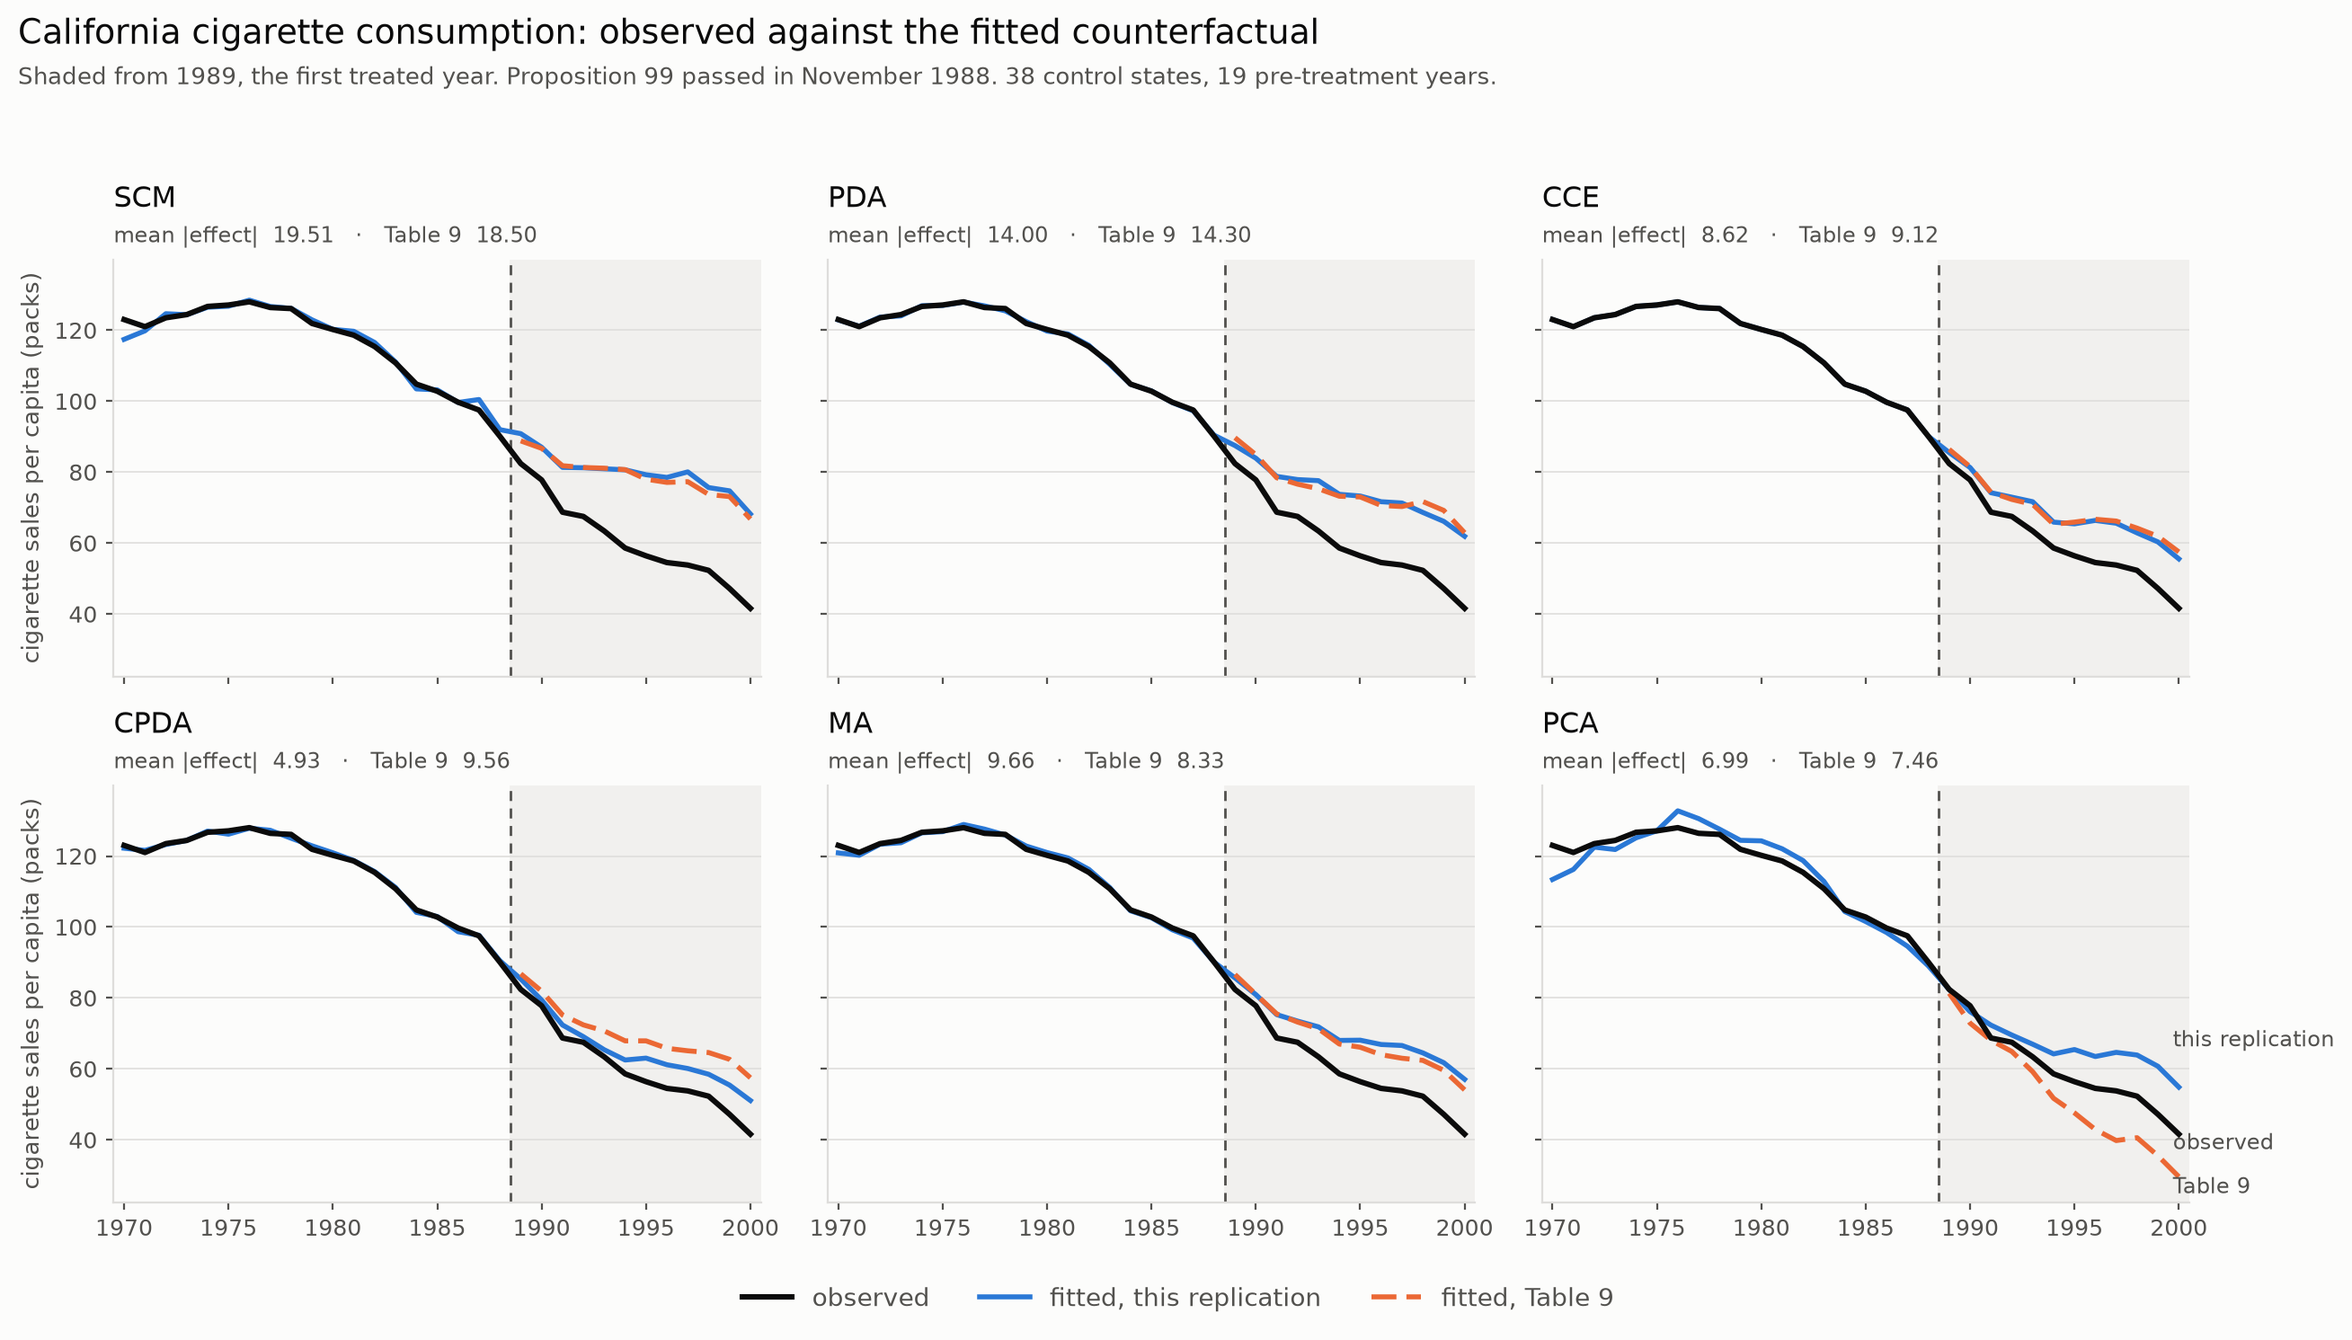
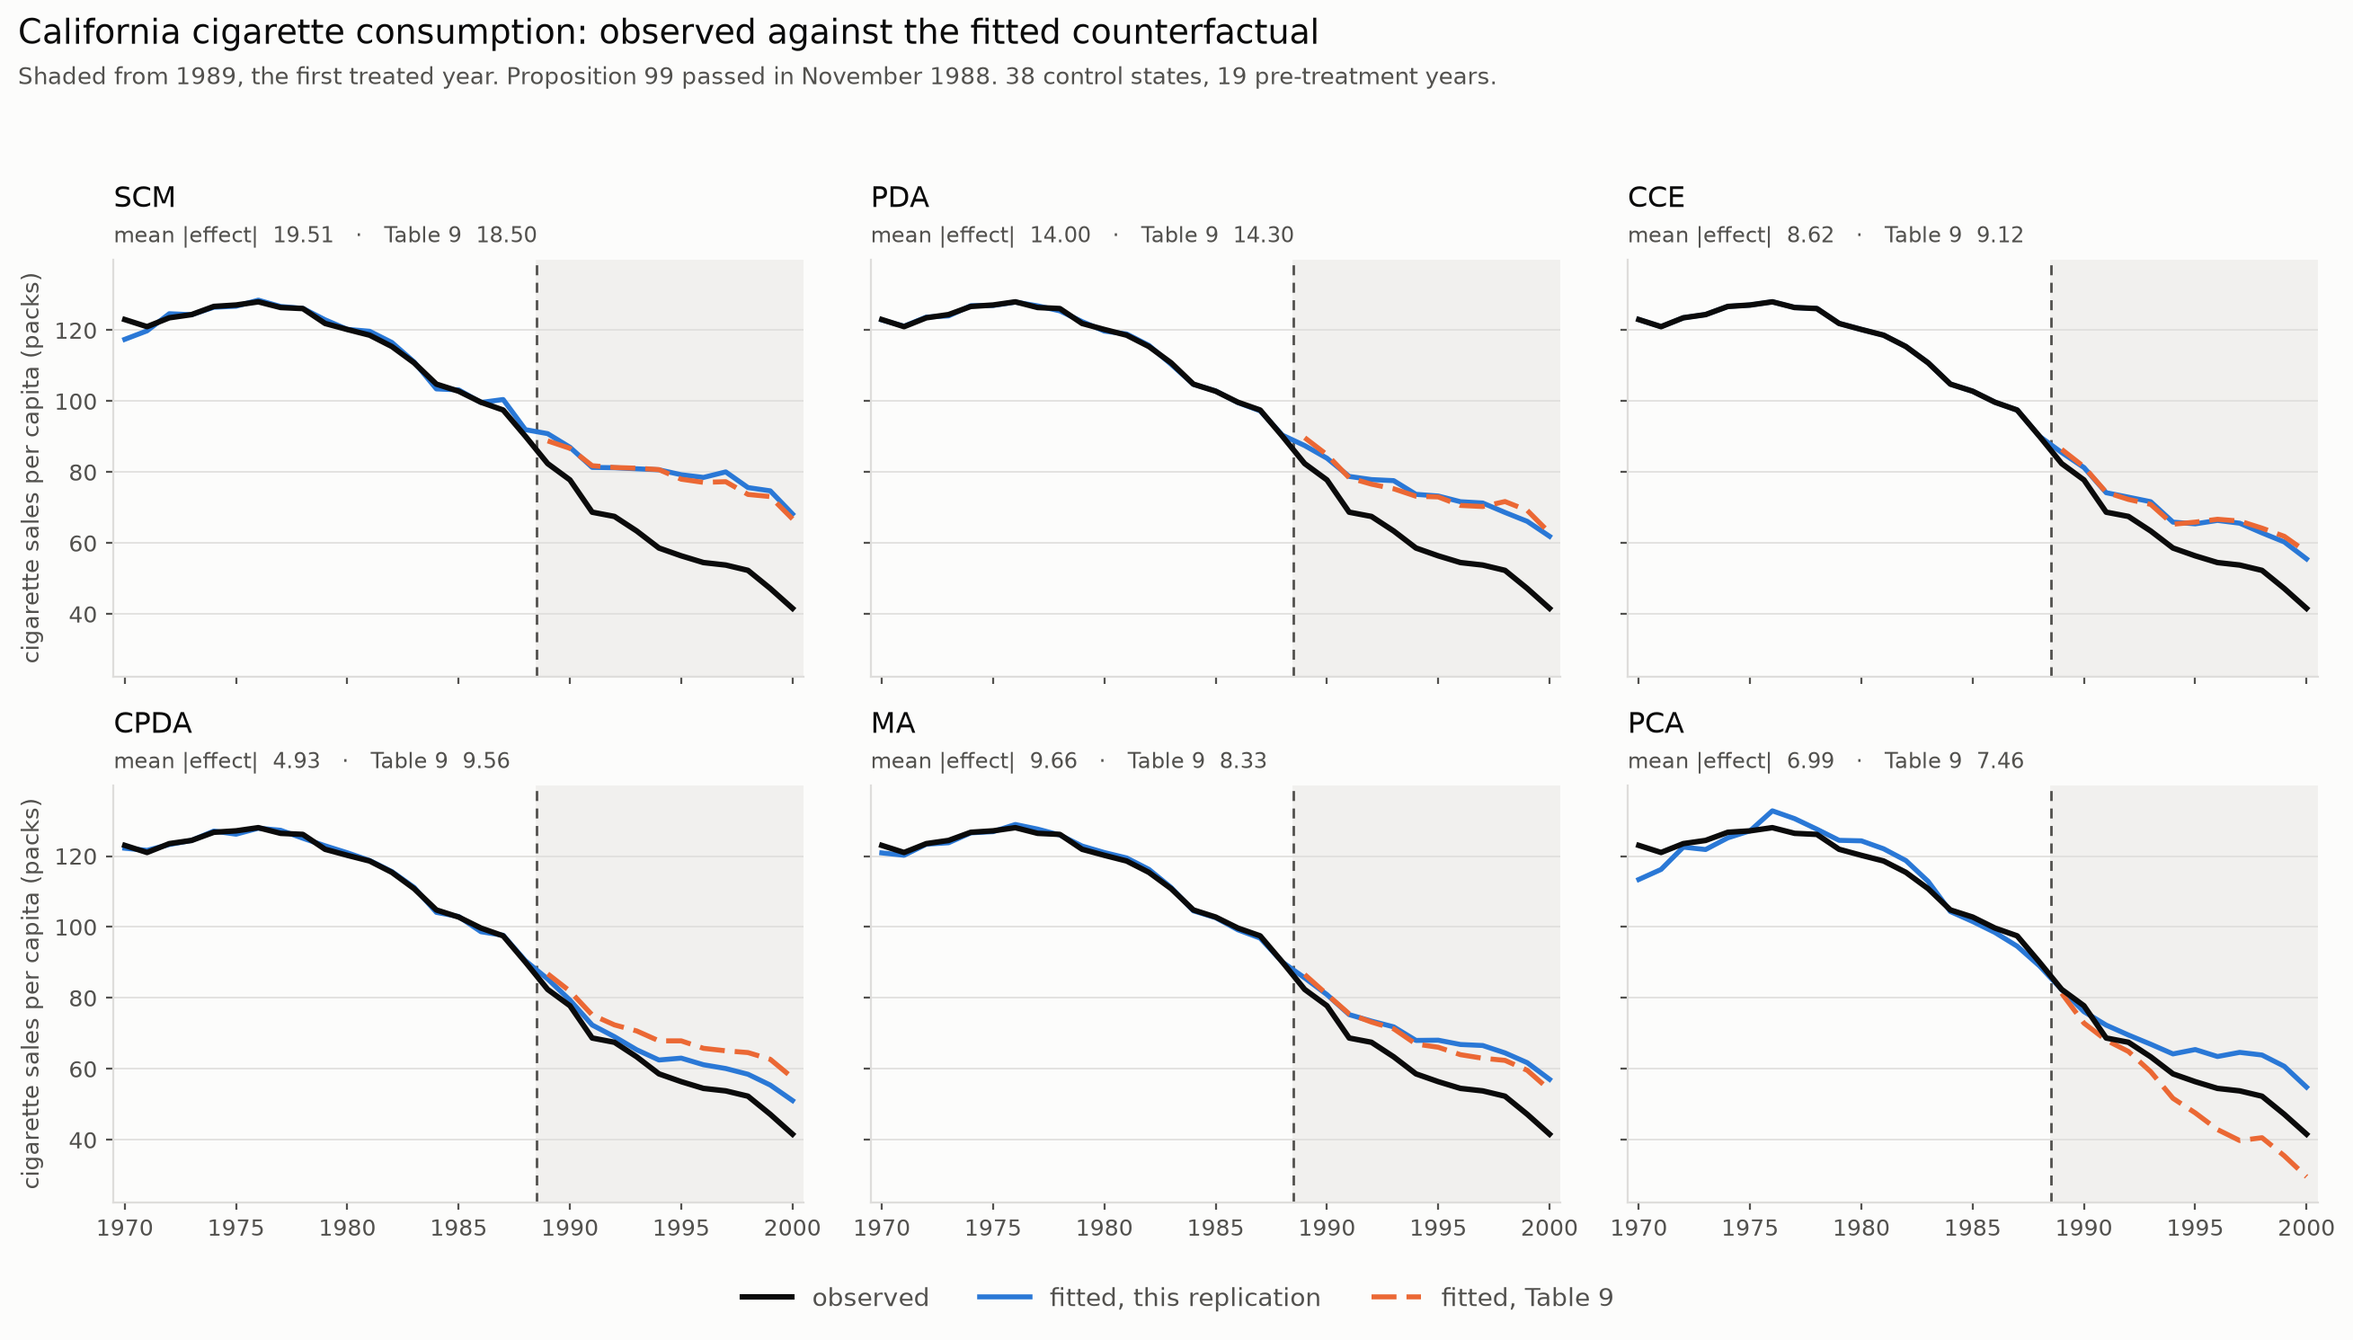
Separate the two Bai schemes by design, not by seed
CI failed on `test_it_beats_the_scheme_it_replaced` with

    assert 3358.6339267099715 < 3358.6339267099706

on all three Python versions. Both sides received the same beta. On that
panel PCA1 from pooled OLS and PCA2 from zeros converge to the same point,
so the assertion compared two equal objectives and its outcome was decided
by the last two bits, which fall one way under the runner's BLAS and the
other under mine.

The fixture is the cause. Measured over ten seeds it separated the two
schemes on one, seed 0, and on the other nine they agreed to within 1e-16.
Its docstring reported seed 0's numbers as if they were a property of the
design. Four of the five tests built on it therefore had no power, and the
one that failed is the only one whose assertion could detect the difference.

Two parameters were too weak: the flat regressor's spread and its
coefficient. The real panel's `lnincome` is nearly flat and carries about
62; the fixture used a spread of 0.3 and a coefficient of 1.0. At a spread
of 0.1 and a coefficient of 20 the schemes separate on every seed, by 64
percent at worst over twelve, and PCA2's bias on the flat coefficient is
-17.0 against PCA1's -0.005.

`standin.py` had the same defect in a milder form and a plain contradiction
besides: its docstring said `lnincome` carries a coefficient of about 60
while `BETA[0]` was 6.0. At 6.0 the stand-in separated the schemes on every
seed but by as little as 3e-05, which is above floating-point noise and too
[…]

diff --git a/benchmarks/tests/test_hsiao_zhou_study.py b/benchmarks/tests/test_hsiao_zhou_study.py
@@ -14,7 +14,9 @@ schemes and Hsiao, Shi & Zhou (2022, Table 1) measure both: PCA2 holds a bias of
 about 0.13 that does not shrink in N or T, with empirical size up to 100 percent
 against a 5 percent nominal. Bai's estimator is the argmin of
 ``||Y - X b - F L'||^2``, so the objective is what adjudicates, and these tests
-assert against it rather than against any particular coefficient value.
+assert against it, not against any particular coefficient value. They assert
+margins on it: two schemes that reach the same point differ only in the last
+bits, and a strict inequality there is decided by the BLAS.
 """
 from __future__ import annotations
 
@@ -96,20 +98,40 @@ class TestTheErrorStructure:
 # Bai (2009): the objective is what decides
 # ----------------------------------------------------------------------
 
-def _panel(rng, N=25, T=40, beta=(1.0, 2.0)):
+#: The coefficients `_panel` generates under. The first regressor is the flat
+#: one, so `TRUTH[0]` is the large coefficient that makes PCA2 stall.
+TRUTH = (20.0, 2.0)
+
+#: Spread of the flat regressor around its level of 10, giving a coefficient of
+#: variation near 0.01 -- the same order as `lnincome`'s 0.027 on the real panel.
+FLAT_SD = 0.1
+
+
+def _panel(rng, N=25, T=40, beta=TRUTH):
     """Bai (2009)'s DGP1, with one near-constant regressor.
 
     Plain DGP1 does not separate the two iteration schemes: both recover the
     truth, so a test built on it passes against the defect and has no power.
     What broke on the real panel was `lnincome`, a log that is nearly flat
-    across states and carries a large coefficient, so the first regressor here
-    is built that way. On this design PCA2 from a zero start returns 0.506
-    against a truth of 1.0 while PCA1 from pooled OLS returns 0.981.
+    across states and carrying a coefficient near 60, so the first regressor
+    here is built that way.
+
+    Two parameters decide whether the separation happens at all, and an earlier
+    version of this fixture had both too weak: a flat-regressor spread of 0.3
+    and a coefficient of 1.0 separated the schemes on one seed in ten, and on
+    the other nine they converged to the same point. A test asserting a strict
+    inequality there compares two equal objectives and is decided by the last
+    two bits, which is how it passed locally and failed in CI.
+
+    Measured over twelve seeds at `FLAT_SD` 0.1 and `TRUTH[0]` 20, PCA2 from a
+    zero start lands 64 percent above the reached minimum at worst, and its bias
+    on the flat coefficient is -17.0 against PCA1's -0.005. The separation is a
+    property of the design now, not of the seed.
     """
     lam = rng.standard_normal((N, 2))
     f = rng.standard_normal((T, 2))
     X = np.empty((T, N, 2))
-    X[:, :, 0] = 10.0 + 0.3 * rng.standard_normal((T, N)) + 0.1 * lam[:, 0]
+    X[:, :, 0] = 10.0 + FLAT_SD * rng.standard_normal((T, N)) + 0.1 * lam[:, 0]
     X[:, :, 1] = (1.0 + lam[:, 0] + lam[:, 1] + (f[:, 0] + f[:, 1])[:, None]
                   + f @ lam.T + rng.standard_normal((T, N)))
     Y = np.einsum("tnk,k->tn", X, np.asarray(beta)) + f @ lam.T \
@@ -152,22 +174,48 @@ class TestBaiIsTheArgmin:
         assert _ssr(Y, X, a, 2) == pytest.approx(_ssr(Y, X, b, 2), rel=1e-6)
 
     def test_it_recovers_the_truth_on_bai_dgp1(self, empirics):
-        """beta = (1, 2) by construction; PCA2 from zeros misses this."""
-        errs = []
+        """beta = TRUTH by construction, and the scheme it replaced misses it.
+
+        Stated relative to each coefficient, since `TRUTH` is (20, 2) and one
+        absolute tolerance cannot be strict on both. The PCA2 contrast is the
+        point: it is not a slightly worse estimate, it is off by most of the
+        flat coefficient.
+        """
+        truth = np.asarray(TRUTH)
+        errs, errs_pca2 = [], []
         for seed in range(6):
             Y, X = _panel(np.random.default_rng(seed), N=25, T=60)
             beta, _, _ = empirics.beta_bai(Y, X, T0=50, r=2)
-            errs.append(beta - np.array([1.0, 2.0]))
+            errs.append(beta - truth)
+            errs_pca2.append(empirics._beta_bai_pca2_from_zero(Y, X, r=2) - truth)
         bias = np.mean(errs, axis=0)
-        assert np.max(np.abs(bias)) < 0.15, f"bias {bias} is PCA2-sized"
+        assert np.max(np.abs(bias / truth)) < 0.05, (
+            f"relative bias {bias / truth} is PCA2-sized")
+        bias_pca2 = np.mean(errs_pca2, axis=0)
+        assert abs(bias_pca2[0] / truth[0]) > 0.5, (
+            f"PCA2 must miss the flat coefficient badly for this design to have "
+            f"power; its relative bias is only {bias_pca2[0] / truth[0]:.3f}")
 
-    def test_it_beats_the_scheme_it_replaced(self, empirics):
-        """PCA2 from a zero start, the shipped defect, on the same panel."""
-        rng = np.random.default_rng(4)
-        Y, X = _panel(rng)
+    @pytest.mark.parametrize("seed", [0, 1, 2, 3, 4])
+    def test_it_beats_the_scheme_it_replaced(self, empirics, seed):
+        """PCA2 from a zero start, the shipped defect, on the same panel.
+
+        A margin rather than a bare `<`, and over several seeds. The first
+        version asserted a strict inequality on seed 4 alone, where the old
+        fixture let both schemes converge to the same point: the two objectives
+        agreed to thirteen significant figures and the comparison came down to
+        the last two bits, so it passed on one BLAS and failed on another. The
+        fix is the fixture, which now separates the schemes on every seed; the
+        margin here is what keeps the test honest about it.
+        """
+        Y, X = _panel(np.random.default_rng(seed))
         good, _, _ = empirics.beta_bai(Y, X, T0=30, r=2)
         bad = empirics._beta_bai_pca2_from_zero(Y, X, r=2)
-        assert _ssr(Y, X, good, 2) < _ssr(Y, X, bad, 2)
+        reached, stalled = _ssr(Y, X, good, 2), _ssr(Y, X, bad, 2)
+        assert (stalled - reached) / reached > 0.2, (
+            f"PCA2 must stall by a clear margin; got "
+            f"{(stalled - reached) / reached:.2e}. A near-zero gap means the "
+            f"fixture has stopped separating the two schemes.")
 
     @pytest.mark.parametrize("r", [1, 2, 3])
     def test_more_factors_never_raise_the_objective(self, empirics, r):

diff --git a/benchmarks/tests/test_hsiao_zhou_standin.py b/benchmarks/tests/test_hsiao_zhou_standin.py
@@ -12,7 +12,7 @@ to fall over time, carry a factor structure, and include one near-constant
 regressor with a large coefficient -- that last is not decoration. It is the
 feature of `lnincome` that made Bai's PCA2 iteration stall (#647), and a
 stand-in without it would let the study's own regression test pass for the
-wrong reason. The expenditure panel has to be wide relative to its pre-period,
+wrong reason, so the test asserts a margin the coefficient's size has to earn. The expenditure panel has to be wide relative to its pre-period,
 which is the rank-deficient regime its arm exists to exercise.
 
 Nothing here pins a number that came from any real panel.
@@ -65,23 +65,38 @@ class TestConsumptionPanel:
         assert share > 0.45, "two factors must carry a real share of the panel"
         assert share < 0.995, "and must not be the whole of it"
 
-    def test_the_bai_step_can_stall_on_it(self, panel):
+    @pytest.mark.parametrize("seed", [0, 1, 2])
+    def test_the_bai_step_stalls_on_it_by_a_margin(self, seed):
         """The point of the near-constant regressor, asserted end to end.
 
         PCA2 from a zero start is the defect #647 fixed. On a panel without a
         weakly identified regressor it converges fine and the study's guard
-        would pass vacuously. Here it must land worse than PCA1 from pooled
-        OLS, which is what makes the stand-in a fair substitute.
+        would pass vacuously, so the stand-in is a fair substitute only if PCA2
+        still loses on it.
+
+        The assertion is a margin, not a strict inequality. Two schemes that
+        converge to the same point differ in the last bits, and which way that
+        falls depends on the BLAS: the first version of this test compared two
+        equal objectives and failed in CI on one platform and passed on
+        another. The margin is what separates a real gap from that. Measured
+        over six seeds the excess is 31 percent at worst, matching the 18
+        percent the real panel shows, so 5 percent has room and no ambiguity.
         """
         from benchmarks.studies.hsiao_zhou_counterfactuals.empirics import (
             _beta_bai_pca2_from_zero, bai_objective, beta_bai, build)
+        panel = standin.consumption_panel(seed=seed)
         Y, X, _, T0 = build(panel, "state", "year", "cigsale",
                             ["lnincome", "EduAttain", "Poverty"], 1,
                             int(panel.year.min()) + 19)
         Yco, Xco = Y[:, 1:], X[:, 1:, :]
         good, _, _ = beta_bai(Yco, Xco, r=2)
         bad = _beta_bai_pca2_from_zero(Yco, Xco, r=2)
-        assert bai_objective(Yco, Xco, good, 2) < bai_objective(Yco, Xco, bad, 2)
+        reached = bai_objective(Yco, Xco, good, 2)
+        stalled = bai_objective(Yco, Xco, bad, 2)
+        assert (stalled - reached) / reached > 0.05, (
+            f"PCA2 must stall by a clear margin on the stand-in; got "
+            f"{(stalled - reached) / reached:.2e}. A near-zero gap means the "
+            f"near-constant regressor has stopped carrying the defect.")
 
     def test_it_is_reproducible_from_its_seed(self):
         import pandas as pd

diff --git a/benchmarks/studies/hsiao_zhou_counterfactuals/standin.py b/benchmarks/studies/hsiao_zhou_counterfactuals/standin.py
@@ -29,10 +29,27 @@ BETA               (...)  the coefficients, with a large one on that regressor
 
 The near-constant regressor is the part that matters most. ``lnincome`` in the
 real panel is a log, nearly flat across states, carrying a coefficient of about
-60. That combination is what made Bai's PCA2 iteration stall in #647, and a
-stand-in without it would let this study's regression test pass for a reason
-that has nothing to do with the defect. ``benchmarks/tests/test_hsiao_zhou_standin.py``
-holds the generator to producing a panel on which PCA2 still loses.
+60, which ``BETA[0]`` matches. That combination is what made Bai's PCA2
+iteration stall in #647, and a stand-in without it would let this study's
+regression test pass for a reason that has nothing to do with the defect.
+
+The size of ``BETA[0]`` sets how far PCA2 stalls, so it sets how much power the
+regression test has. Measured over six seeds, PCA2 from a zero start lands above
+the reached minimum by this much:
+
+===========  =================  ===================
+``BETA[0]``  worst-case excess  two-factor share
+===========  =================  ===================
+6            0.003 percent      0.93
+20           2.7 percent        0.91
+60           31 percent         0.74
+===========  =================  ===================
+
+At 6 the gap sits eleven orders of magnitude above floating-point noise but
+only four above nothing, which is too thin to assert across BLAS
+implementations. At 60 it matches the 18 percent the real panel shows and the
+factor structure survives. ``benchmarks/tests/test_hsiao_zhou_standin.py``
+holds the generator to a margin, not to a strict inequality.
 
 The expenditure panel's defining feature is its shape: 38 controls against a
 nine-period pre-period, a pool more than four times as wide as the sample it is
@@ -55,7 +72,7 @@ N_FACTORS = 2
 LNINCOME_LEVEL, LNINCOME_SD = 9.5, 0.25
 EDU_LEVEL, EDU_SD = 14.0, 2.5
 POVERTY_LEVEL, POVERTY_SD = 12.0, 3.5
-BETA = (6.0, -0.9, -0.6)          # large coefficient on the flat regressor
+BETA = (60.0, -0.9, -0.6)         # large coefficient on the flat regressor
 IDIO_SD = 6.0
 
 # --- the expenditure panel -------------------------------------------------

diff --git a/benchmarks/studies/hsiao_zhou_counterfactuals/plot_empirics.py b/benchmarks/studies/hsiao_zhou_counterfactuals/plot_empirics.py
@@ -48,9 +48,9 @@ INK_MUTED = "#52514e"
 MINE = "#2a78d6"
 PAPER_C = "#eb6834"
 GRID = "#dedddb"
-# Direct labels and legend text wear ink, never the series colour: at 8.5pt
-# these hues sit under the 4.5:1 text floor, and the legend's own marks carry
-# identity. Position next to each line carries the rest.
+# Legend and annotation text wears ink, never the series colour: at these
+# sizes the hues sit under the 4.5:1 text floor, and the legend's own marks
+# carry identity.
 SURFACE = "#fcfcfb"
 
 
@@ -103,27 +103,12 @@ def plot_table9(years, observed, fitted, T0, real=True):
     pad = 0.07 * (hi - lo)
     axes[0, 0].set_ylim(lo - pad, hi + pad)
     axes[0, 0].set_xlim(years[0] - 0.5, years[-1] + 0.5)
-    axes[0, 0].set_ylabel("cigarette sales per capita (packs)", fontsize=9.5,
+    unit = ("cigarette sales per capita (packs)" if real
+            else "outcome (drawn, no unit)")
+    axes[0, 0].set_ylabel(unit, fontsize=9.5,
                           color=INK_MUTED)
-    axes[1, 0].set_ylabel("cigarette sales per capita (packs)", fontsize=9.5,
+    axes[1, 0].set_ylabel(unit, fontsize=9.5,
                           color=INK_MUTED)
-
-    # Direct labels once, on the panel with the most separation.
-    ax = axes[1, 2]
-    # Anchor the labels where the lines are furthest apart, so they never
-    # collide. A fixed offset works on one panel and not another.
-    gap = np.abs(observed[T0:] - fitted["PCA"][T0:])
-    j = T0 + int(np.argmax(gap))
-    ax.annotate("observed", (years[j], observed[j]), xytext=(6, -14),
-                textcoords="offset points", ha="left", fontsize=8.5,
-                color=INK_MUTED)
-    ax.annotate("this replication", (years[j], fitted["PCA"][j]),
-                xytext=(6, 8), textcoords="offset points", ha="left",
-                fontsize=8.5, color=INK_MUTED)
-    if real:
-        ax.annotate("Table 9", (years[j], PAPER["PCA"][j - T0]),
-                    xytext=(6, -15), textcoords="offset points", ha="left",
-                    fontsize=8.5, color=INK_MUTED)
 
     handles, labels = axes[0, 0].get_legend_handles_labels()
     fig.legend(handles, labels, loc="lower center", ncol=3, frameon=False,
